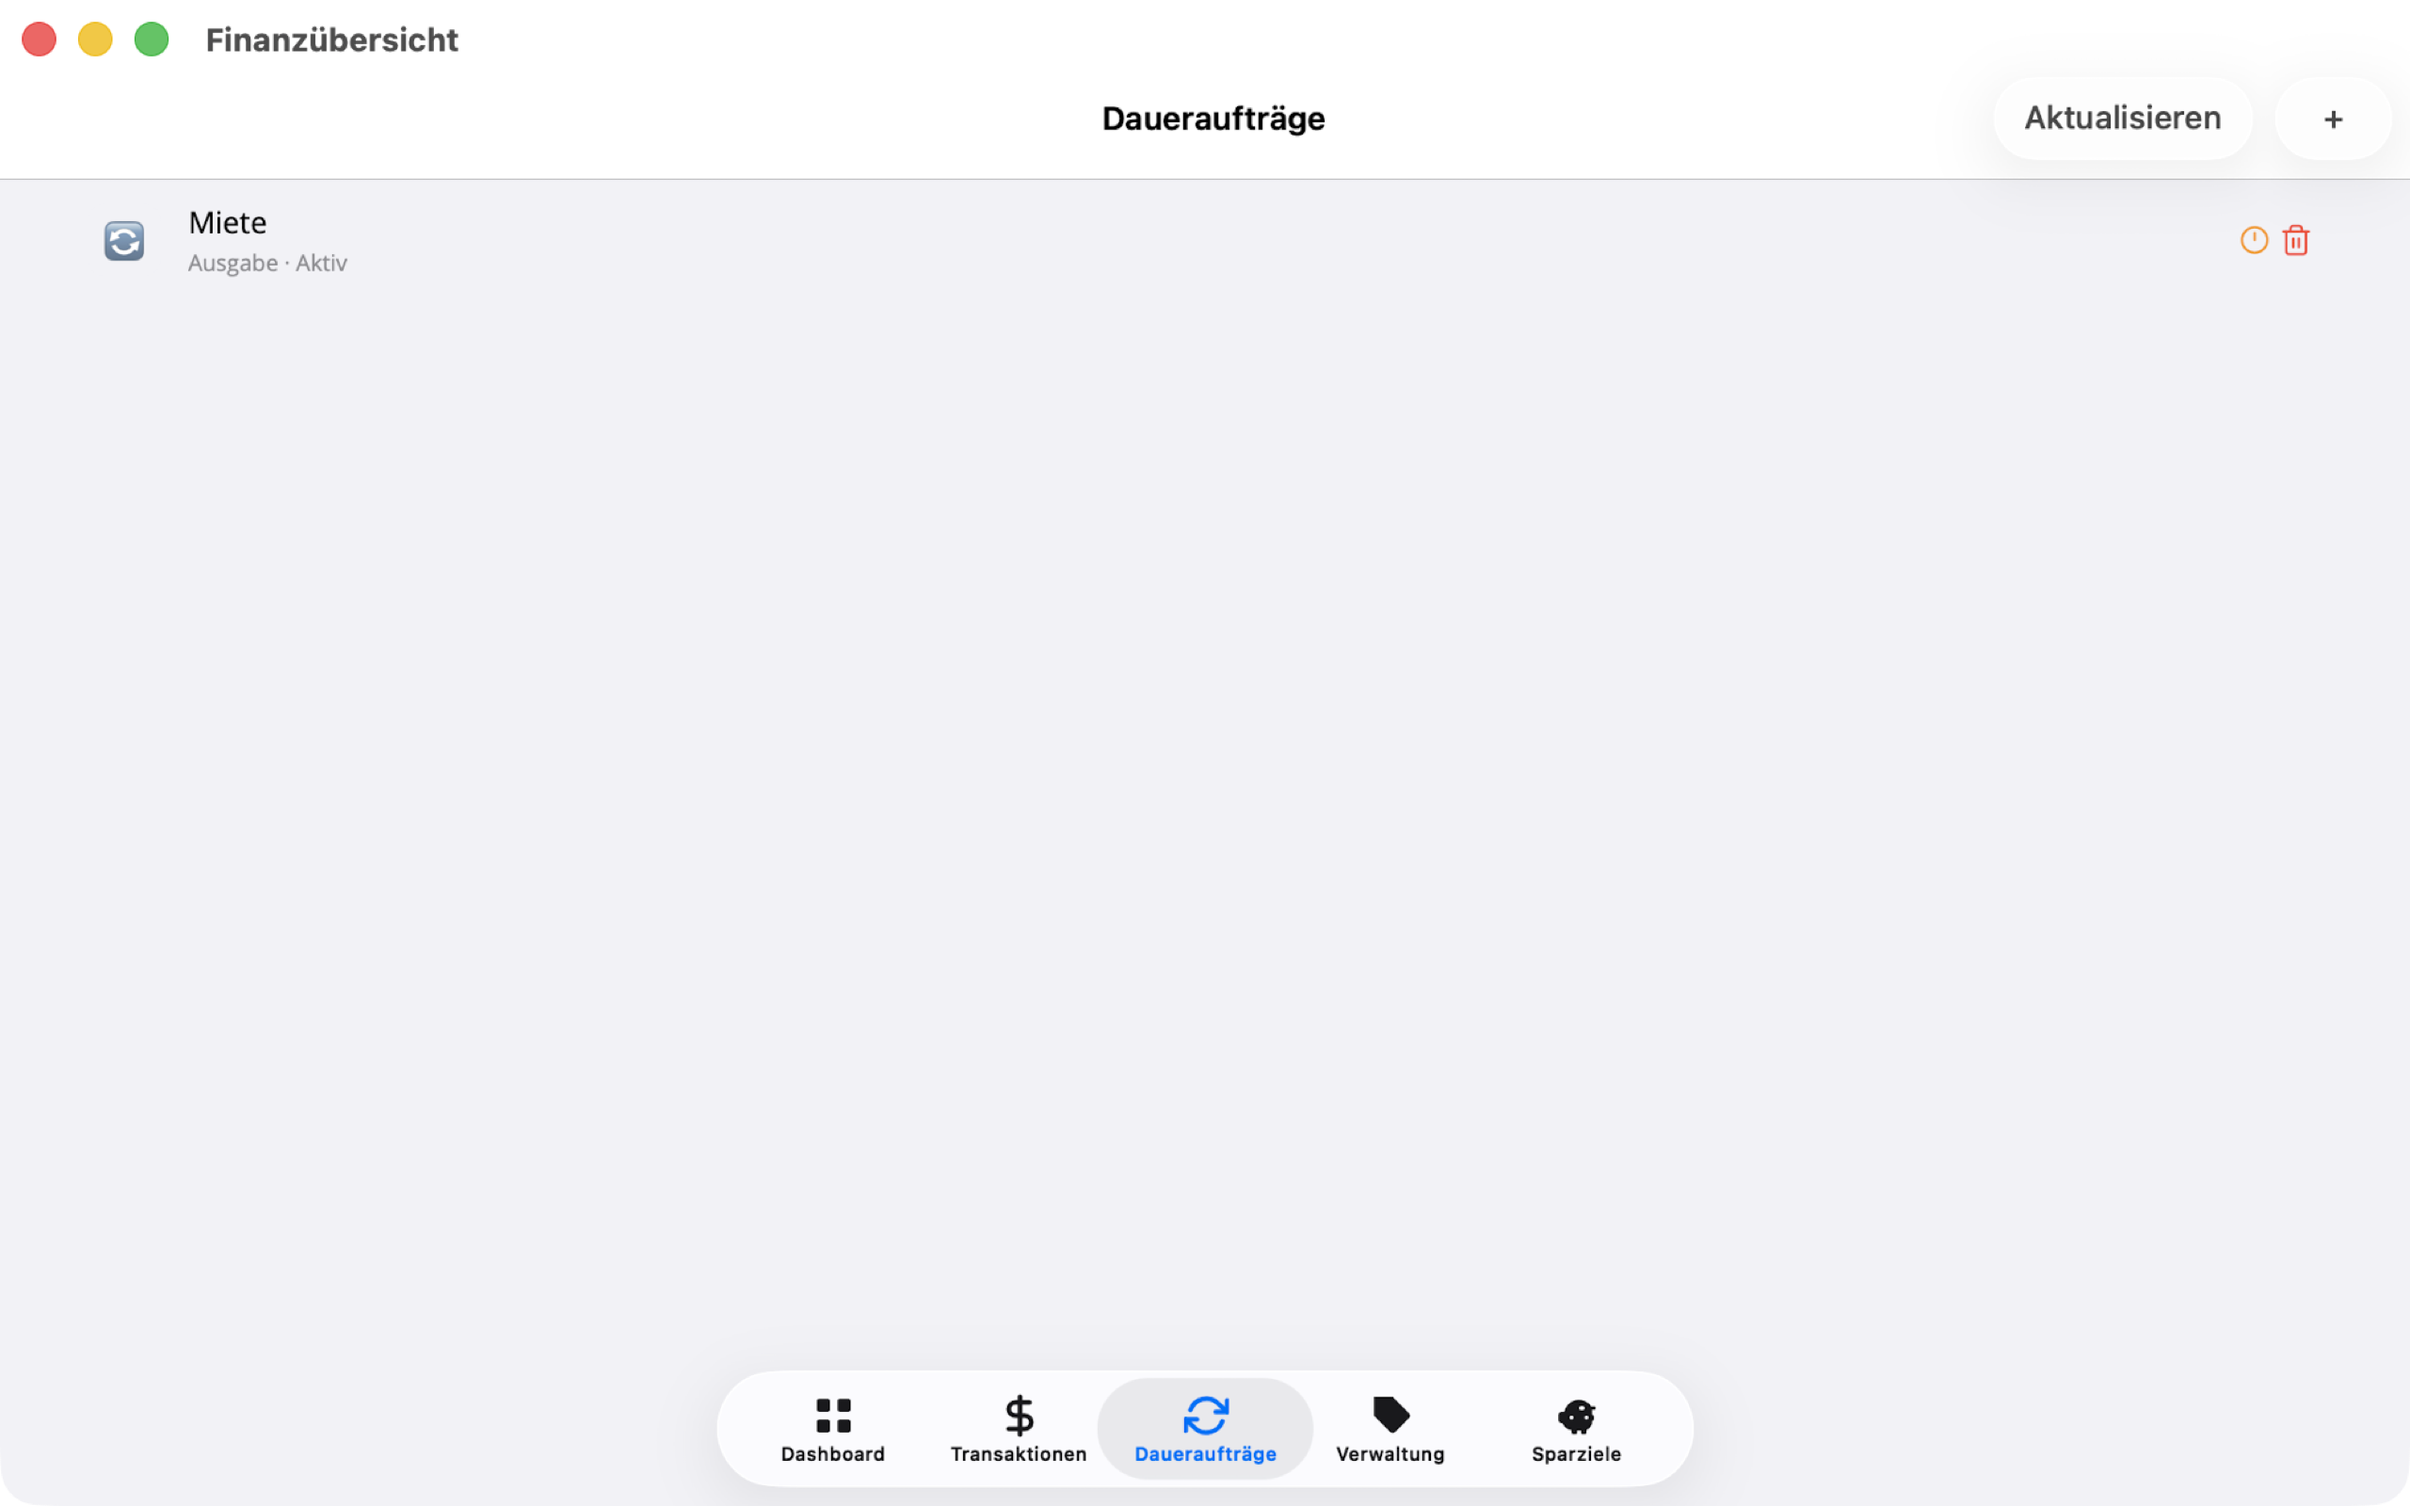
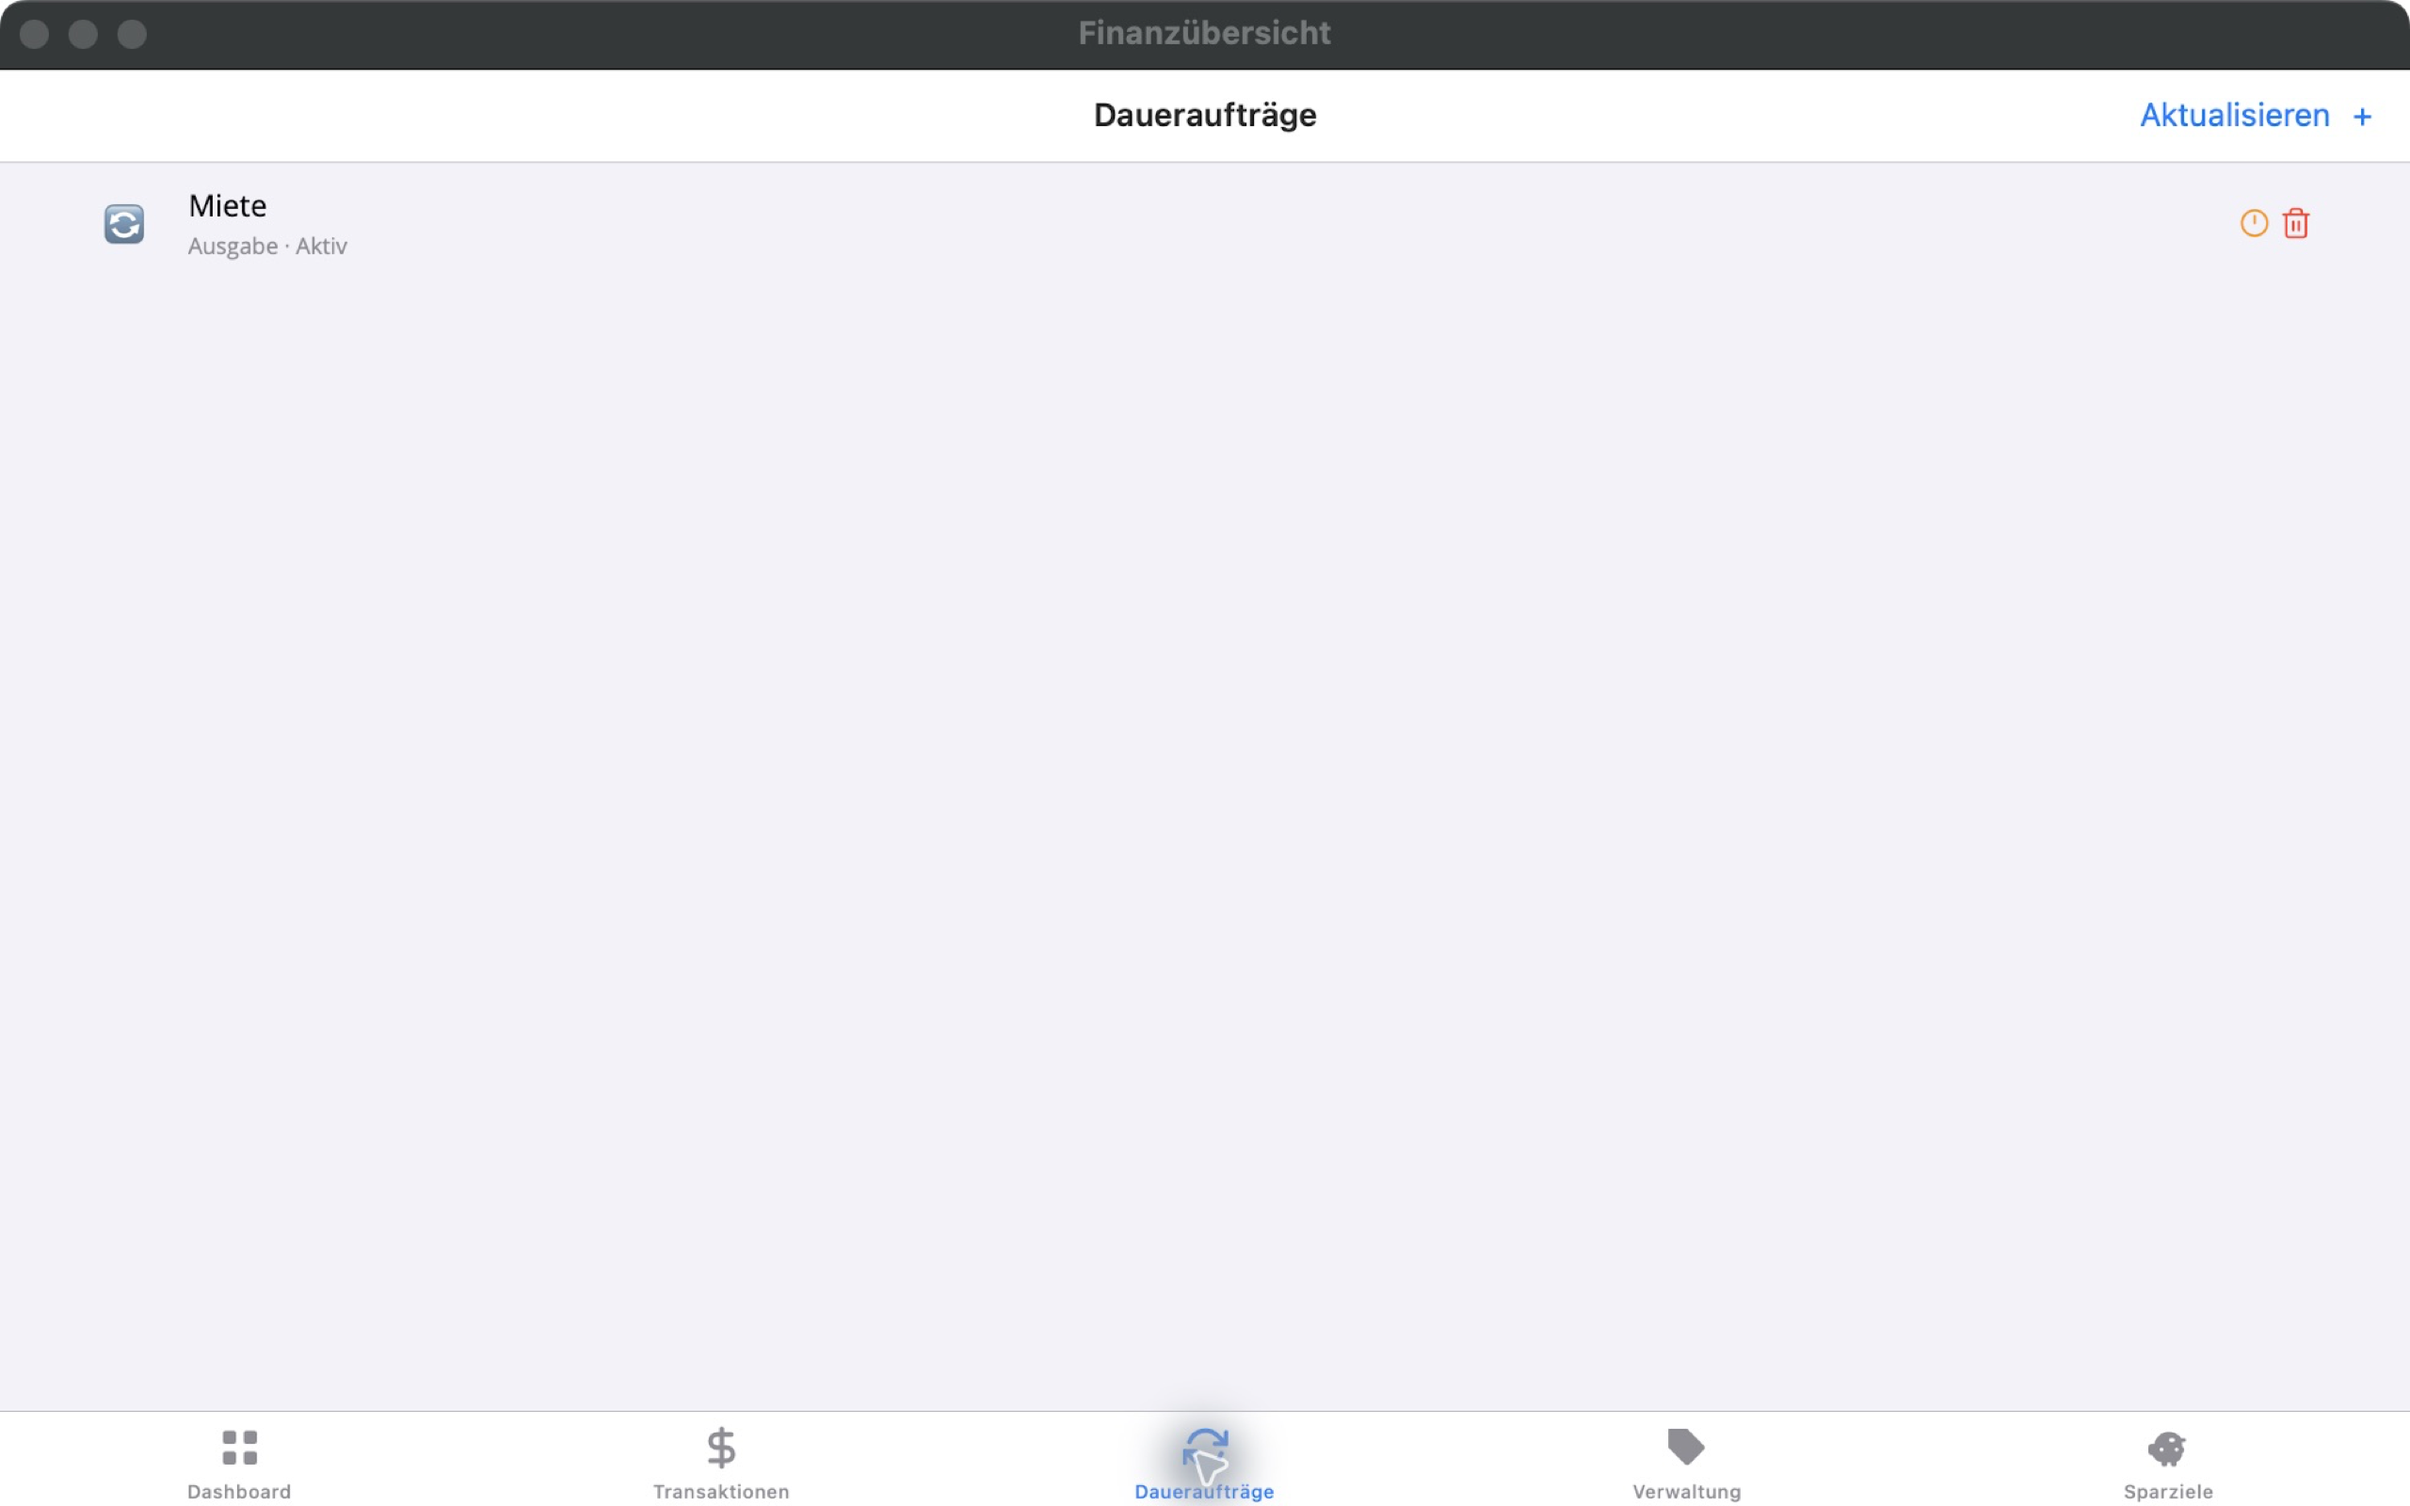
docs: refresh screenshots and store artwork

diff --git a/README.md b/README.md
@@ -38,69 +38,19 @@ Hinweis: Die Benutzeroberfläche unterstützt Deutsch und Englisch; weitere Spra
 
 ## Screenshots
 
-*Stand **v1.23** — sechs Hauptansichten (Dashboard, Transaktionen, Daueraufträge, Verwaltung, Sparziele, Einstellungen) frisch von **Mac Catalyst** (`bundle exec fastlane screenshots_mac` → `./scripts/copy-readme-screenshots-mac.sh`). Übrige Detail-/Filter-Aufnahmen noch älter (iPhone).*
+*Stand **v1.25** — kuratierte Hauptansichten von **Mac Catalyst**. Die sechs aktuellen Aufnahmen decken Dashboard, Transaktionen, Daueraufträge, Verwaltung, Sparziele und Einstellungen ab. App-Store-Aufnahmen für iPhone und iPad werden separat in App Store Connect gepflegt; diese Übersicht zeigt repräsentative Mac-Ansichten.*
 
-### Dashboard
-
-Hero-Saldo, Monats-KPIs und eine Analytics-Karte mit Budget-Balken, Donut-Chart und Kategorieliste. Monat/Jahr-Umschalter in der Karte; fällige Daueraufträge als Hinweis mit Schnellaktionen.
-
-| Monatsansicht | Jahresansicht |
+| Dashboard | Transaktionen |
 |:---:|:---:|
-| ![Dashboard Monatsansicht](docs/screenshots/dashboard-monat.png) | ![Dashboard Jahresansicht](docs/screenshots/dashboard-jahr.png) |
+| ![Aktuelles Dashboard](docs/screenshots/dashboard-monat.png) | ![Aktuelle Transaktionsliste](docs/screenshots/transaktionen.png) |
 
-Fällige Daueraufträge aufklappen und direkt buchen, überspringen oder verschieben:
-
-![Dauerauftrag auf dem Dashboard](docs/screenshots/dashboard-dauerauftrag.png)
-
-### Transaktionen & Import
-
-Liste mit Vorlagen, Filter, Swipe-Aktionen und CSV-Import mit Duplikat-Erkennung. (Aktuell zusätzlich Monats-Chips, Tageskarten und Anlegen per Modal-Sheet — noch ohne aktualisierte Screenshots.)
-
-| Transaktionsliste | Filter & Suche | Swipe-Aktionen |
-|:---:|:---:|:---:|
-| ![Transaktionsliste](docs/screenshots/transaktionen.png) | ![Filter](docs/screenshots/transaktionen-filter.png) | ![Swipe](docs/screenshots/transaktionen-swipe.png) |
-
-| Neue Transaktion | Umbuchung | Import-Vorschau |
-|:---:|:---:|:---:|
-| ![Transaktion erfassen](docs/screenshots/transaktion-detail.png) | ![Umbuchung](docs/screenshots/umbuchung.png) | ![Import-Vorschau](docs/screenshots/import-vorschau.png) |
-
-### Daueraufträge
-
-Übersicht wiederkehrender Buchungen und Detailansicht mit Intervall und Erinnerung.
-
-| Übersicht | Detail |
+| Daueraufträge | Verwaltung |
 |:---:|:---:|
-| ![Daueraufträge](docs/screenshots/dauerauftraege.png) | ![Dauerauftrag bearbeiten](docs/screenshots/dauerauftrag-detail.png) |
+| ![Aktuelle Daueraufträge](docs/screenshots/dauerauftraege.png) | ![Aktuelle Kategorienverwaltung](docs/screenshots/verwaltung-kategorien.png) |
 
-### Verwaltung
-
-Kategorien und Konten im einheitlichen Kartenlayout — inkl. Gesamtsaldo, Typ-Icons und Archivieren.
-
-| Kategorien | Konten |
+| Sparziele | Einstellungen |
 |:---:|:---:|
-| ![Kategorien](docs/screenshots/verwaltung-kategorien.png) | ![Konten](docs/screenshots/verwaltung-konten.png) |
-
-Konto bearbeiten (Anfangssaldo):
-
-![Anfangssaldo](docs/screenshots/konto-bearbeiten.png)
-
-### Sparziele
-
-Fortschritt zu Sparzielen mit Prognose.
-
-![Sparziele](docs/screenshots/sparziele.png)
-
-Neues Sparziel anlegen:
-
-![Neues Sparziel](docs/screenshots/sparziel-neu.png)
-
-### Einstellungen
-
-Darstellung, Sprache, Anzeige-Währung, Speicherort, Backup & Restore und App-Info.
-
-| Allgemein | Über & Bibliotheken |
-|:---:|:---:|
-| ![Einstellungen](docs/screenshots/einstellungen.png) | ![Einstellungen Über](docs/screenshots/einstellungen-ueber.png) |
+| ![Aktuelle Sparziele](docs/screenshots/sparziele.png) | ![Aktuelle Einstellungen](docs/screenshots/einstellungen.png) |
 
 ## Plattformen
 

diff --git a/fastlane/creative-assets/README.md b/fastlane/creative-assets/README.md
@@ -1,0 +1,45 @@
+# Finanzübersicht – App Store Creative Assets
+
+## Produktseiten-Kopfzeile
+
+Zwei separate Entwürfe für Apples 21:9-Kopfzeile. Beide Dateien sind 3840 × 1646 Pixel, PNG ohne Alphakanal. Die ImageGen-Ausgaben waren kleiner und wurden auf ASC-Zielmaß zugeschnitten und hochskaliert; vor einer Nutzung deshalb in der ASC-Vorschau prüfen. Das bestehende universelle 16:9-Motiv für Suchergebnisse bleibt davon getrennt.
+
+### Variante 1 – zentrales F/E-Motiv
+
+![Header mit zentralem F/E-Motiv](finanzuebersicht-header-v1-3840x1646.png)
+
+Kompaktes F/E-Motiv mit einem dezenten Wachstumsakzent und ruhigen, weichen Farbflächen an den Seiten. Für den engeren iPhone-Ausschnitt komponiert.
+
+### Variante 2 – Finanzsymbole
+
+![Header mit Kreisdiagramm und Balken](finanzuebersicht-header-v2-finanzsymbole-3840x1646.png)
+
+Das F/E-Motiv mit Kreisdiagramm und Wachstumsbalken. Die Symbole sind auf iPad und iPhone Duo stärker sichtbar; auf dem iPhone kann der seitliche Bildinhalt beschnitten werden.
+
+Die Header-Dateien wurden lokal für die ASC-Zielmaße exportiert und sind Entwürfe zur Vorschau. Sie wurden noch nicht in App Store Connect hochgeladen.
+
+## Universelles Motiv für Kopfzeile und Suchergebnisse
+
+## Upload-Datei
+
+`finanzuebersicht-universal-v1-5244x2950.png`
+
+- Universelles Creative Asset für Produktseiten-Kopf und Suchergebnisse.
+- 5244 × 2950 Pixel, PNG, RGB, ohne Alphakanal.
+- Sprachneutral: keine Überschrift oder Werbetexte; dasselbe Motiv für Deutsch und Englisch.
+- Gestaltung: bestehendes F/€-Markenzeichen, Budget-Aufteilung, Einnahmen-/Ausgaben-Säulen und Sparziel-Fortschritt; Blau/Cyan und dezente Grün-Akzente.
+- Erstellt mit dem eingebauten `image_gen`-Werkzeug, anschließend als PNG in die geforderte ASC-Größe exportiert.
+
+## Quelle und Auflösung
+
+`finanzuebersicht-universal-v1-source.png` ist die ausgewählte ImageGen-Quelldatei. Das Werkzeug lieferte 1672 × 941 Pixel, auch nach einer gezielten Anfrage nach höherer Auflösung. Die Upload-Datei wurde deshalb auf 5244 × 2950 Pixel hochskaliert; sie ist keine native 5K-Renderdatei.
+
+Das vorhandene `Finanzuebersicht/Resources/Images/brand_mark.png` diente als Markenreferenz. Der vollständige Generierungs-Prompt und die gezielte Verfeinerung stehen in `finanzuebersicht-universal-v1-prompt.txt`.
+
+## ASC
+
+Die Maße und das Dateiformat entsprechen Apples Universalformat für Header und Suchergebnisse. Das universelle Motiv wurde in ASC Version 1.25 der deutschen Produktseiten-Kopfzeile zugewiesen; es wurde nicht zur Prüfung eingereicht. Den Ausschnitt vor einer Veröffentlichung mit der Produktseiten-Vorschau in ASC prüfen.
+
+- Vorgaben: https://developer.apple.com/help/app-store-connect/reference/app-information/creative-assets-specifications
+- Gestaltung und Ausschnitte: https://developer.apple.com/app-store/asset-best-practices/
+- Vorgaben geprüft am 25.10.2026.

diff --git a/docs/APP_STORE.md b/docs/APP_STORE.md
@@ -151,7 +151,7 @@ Siehe `MONETIZATION.md`. Kurz: Direct = immer Pro, kein Sync. Store = Free-Limit
 
 ## Screenshot-Automatisierung
 
-Lokal App-Store-Screenshots (iPhone + iPad, `de-DE` + `en-US`) und ausgewählte DE-iPhone-Frames fürs README erzeugen. Rohdaten unter `fastlane/screenshots/` sind **gitignored**; kuratierte README-PNGs liegen in `docs/screenshots/`.
+Lokal App-Store-Screenshots (iPhone + iPad, `de-DE` + `en-US`) und ausgewählte DE-Mac-Captures fürs README erzeugen. Rohdaten unter `fastlane/screenshots/` und `fastlane/screenshots-mac/` sind **gitignored**; kuratierte README-PNGs liegen in `docs/screenshots/`.
 
 ### Voraussetzungen
 
@@ -179,14 +179,15 @@ bundle exec fastlane screenshots
 PNG-Ausgabe: `fastlane/screenshots/<locale>/<Gerät>-<shot>.png` (flaches Layout, z. B. `de-DE/iPhone 17-01-dashboard.png` … `07-settings.png`).  
 Details zu UITest-Flow und Simulator-Pfaden: `Finanzuebersicht/Platforms/iOS/UITests/README.md`.
 
-3. **README-Bilder aktualisieren** (nur DE-iPhone → bestehende `docs/screenshots/`-Namen):
+3. **README-Bilder aktualisieren** (DE-Mac Catalyst → sechs kuratierte `docs/screenshots/`-Namen):
 
 ```bash
-./scripts/copy-readme-screenshots.sh
+bundle exec fastlane screenshots_mac
+./scripts/copy-readme-screenshots-mac.sh
 git add docs/screenshots/
 ```
 
-Das Skript mappt sechs der sieben Aufnahmen (`03-quick-expense` hat noch keinen README-Slot). Legacy-README-Assets ohne Gegenstück (z. B. `dashboard-jahr.png`, Filter/Swipe/Detail) bleiben unverändert, bis passende Flows ergänzt werden.
+Das Skript mappt sechs der sieben Aufnahmen. Die leere Schnellerfassung (`03-quick-expense`) wird bewusst nicht in der README gezeigt. Der iOS-Screenshot-Lauf aus Schritt 2 dient separat den App-Store-Bildern und wird nicht in `docs/screenshots/` kopiert.
 
 4. **App Store Connect:** `bundle exec fastlane upload_listing` (siehe [Listing hochladen](#listing-hochladen-app-store-connect)). Kein `frameit`.
 

diff --git a/docs/GUIDE.md b/docs/GUIDE.md
@@ -209,13 +209,12 @@ nbgv set-version <version> # Version bumpen
 
 ## 12. Screenshots
 
-**iOS** (App Store + optional README): **fastlane snapshot** + XCUITest (`Finanzuebersicht/Platforms/iOS/UITests/`).
+**iOS** (App Store): **fastlane snapshot** + XCUITest (`Finanzuebersicht/Platforms/iOS/UITests/`).
 
 ```bash
 dotnet build Finanzuebersicht/Finanzuebersicht.csproj \
   -f net10.0-ios -c Debug -p:RuntimeIdentifier=iossimulator-arm64
 bundle exec fastlane screenshots
-./scripts/copy-readme-screenshots.sh   # DE-iPhone → docs/screenshots/
 ```
 
 **Mac Catalyst** (Mac App Store + README): Fenster-Capture mit Demo-Daten.
